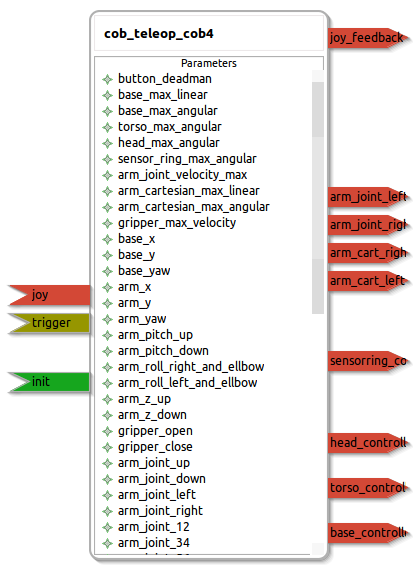
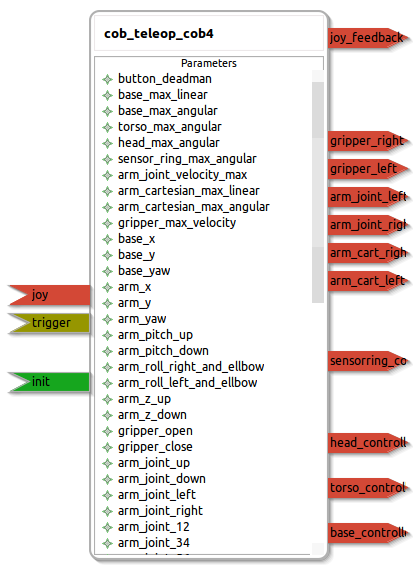
gripper support for 2 joints

Changed region(s): [[0.7775, 0.2088, 0.9952, 0.3281], [0.7464, 0.507, 0.7775, 0.5667]]

diff --git a/cob_teleop_cob4/common/src/cob_teleop_cob4_common.cpp b/cob_teleop_cob4/common/src/cob_teleop_cob4_common.cpp
@@ -9,6 +9,8 @@
 #include <geometry_msgs/Twist.h>
 #include <brics_actuator/JointVelocities.h>
 #include <geometry_msgs/Twist.h>
+#include <brics_actuator/JointVelocities.h>
+#include <brics_actuator/JointVelocities.h>
 #include <sensor_msgs/Joy.h>
 
 /* protected region user include files on begin */
@@ -82,6 +84,9 @@ public:
     double stop_time;
     XmlRpc::XmlRpcValue arm_right_uri;
     XmlRpc::XmlRpcValue led_mode;
+    int gripper_1;
+    int gripper_2;
+    double gripper_max_angular;
 };
 
 class cob_teleop_cob4_data
@@ -109,6 +114,10 @@ public:
     bool out_sensorring_controller_command_active;
     geometry_msgs::Twist out_torso_controller_command;
     bool out_torso_controller_command_active;
+    brics_actuator::JointVelocities out_gripper_left;
+    bool out_gripper_left_active;
+    brics_actuator::JointVelocities out_gripper_right;
+    bool out_gripper_right_active;
 };
 
 class cob_teleop_cob4_impl
@@ -125,19 +134,19 @@ class cob_teleop_cob4_impl
     float run;
     float updown;
     float leftright;
-    brics_actuator::JointVelocities sring;
     geometry_msgs::Twist head;
     geometry_msgs::Twist base;
     geometry_msgs::Twist torso;
     sensor_msgs::Joy joy;
     brics_actuator::JointVelocities left;
     brics_actuator::JointVelocities right;
-    brics_actuator::JointValue jvalue;
+    brics_actuator::JointVelocities sring;
+    brics_actuator::JointVelocities gleft;
+    brics_actuator::JointVelocities gright;
     cob_script_server::ScriptGoal sss;
     
     sensor_msgs::JoyFeedbackArray joyfb;
-    //std::vector<bool> leds;
-    //double leds[4];
+
 
     XmlRpc::XmlRpcValue LEDS;
 
@@ -153,31 +162,42 @@ public:
       ROS_INFO("Connecting to script_server");
       client->waitForServer();
       ROS_INFO("Connected");
-
-
         /* protected region user constructor end */
     }
 
     void configure(cob_teleop_cob4_config config) 
     {
         /* protected region user configure on begin */
-      mode=0;
-      jvalue.unit="rad/sec";
+      //asign arm joints
+
       left.velocities.resize(7);
       right.velocities.resize(7);
       int i;
       for (i=0; i<7; i++)
       {
-        left.velocities.at(i)=jvalue;
-        right.velocities.at(i)=jvalue;
+        left.velocities[i].unit="rad/sec";
+        right.velocities[i].unit="rad/sec";
         left.velocities[i].joint_uri=static_cast<std::string>(config.arm_left_uri[i]).c_str();
         right.velocities[i].joint_uri=static_cast<std::string>(config.arm_right_uri[i]).c_str();
       }
-
+      //set sensoring joint
       sring.velocities.resize(1);
       sring.velocities[0].joint_uri="sensorring_joint";
       sring.velocities[0].unit="rad/sec";
       
+      //set gripper joints
+      gleft.velocities.resize(2);
+      gright.velocities.resize(2);
+      for (i=0; i<2; i++)
+      {
+      gleft.velocities[i].unit="rad/sec";
+      gright.velocities[i].unit="rad/sec";
+      gleft.velocities[i].joint_uri="Todo:/left";
+      gright.velocities[i].joint_uri="Todo:/right";
+      }
+      //set initial mode after startup
+      mode=0;
+      LEDS=config.led_mode[mode];
         /* protected region user configure end */
     }
 
@@ -192,7 +212,10 @@ public:
     data.out_head_controller_command_active=0;
     data.out_arm_cart_left_active=0;
     data.out_arm_cart_right_active=0;
-    
+    data.out_gripper_left_active=0;
+    data.out_gripper_right_active=0;
+    data.out_joy_feedback=ledsOn(LEDS);//Set Leds always, also on startup
+
     if (data.in_joy.buttons.size()<=5)//wait for complete joypad!
     {  
       ROS_WARN("joypad inactive! waiting for array of buttons. Move the Controller");
@@ -215,12 +238,9 @@ public:
       {
         mode = 0;
       }
-
       ROS_INFO("Mode switched to: %d",mode);
-      //ROS_ASSERT(config.led_mode[0].getType() == XmlRpc::XmlRpcValue::TypeArray);
-      LEDS=config.led_mode[mode]; //Todo: set after startup
-      data.out_joy_feedback=ledsOn(LEDS);
-      data.out_joy_feedback_active=1;
+      LEDS=config.led_mode[mode];
+      //data.out_joy_feedback=ledsOn(LEDS);//already set after startup
       return;
     }
     //working
@@ -284,10 +304,12 @@ public:
       left.velocities[4].value=updown*joy.buttons[config.arm_joint_56]*run*config.arm_joint_velocity_max;
       left.velocities[5].value=leftright*joy.buttons[config.arm_joint_56]*run*config.arm_joint_velocity_max;
       left.velocities[6].value=updown*joy.buttons[config.arm_joint_7_gripper]*run*config.arm_joint_velocity_max;
-      //left.joint_gripper=leftright*joy.buttons[config.arm_joint_7_gripper]*run*config.arm_joint_velocity_max;
-      //left.velocities[0].timeStamp=ros::Time::now();
+      gleft.velocities[0].value=joy.axes[config.gripper_1]*run*config.gripper_max_angular;
+      gleft.velocities[1].value=joy.axes[config.gripper_2]*run*config.gripper_max_angular;
+      data.out_gripper_left=gleft;
       data.out_arm_joint_left=left;
       data.out_arm_joint_left_active=1;
+      data.out_gripper_left_active=1;
       if (!joy.buttons[config.button_init_recover]){once=false;}
       if (joy.buttons[config.button_init_recover] && !once)
       {
@@ -304,16 +326,18 @@ public:
       right.velocities[4].value=updown*joy.buttons[config.arm_joint_56]*run*config.arm_joint_velocity_max;
       right.velocities[5].value=leftright*joy.buttons[config.arm_joint_56]*run*config.arm_joint_velocity_max;
       right.velocities[6].value=updown*joy.buttons[config.arm_joint_7_gripper]*run*config.arm_joint_velocity_max;
-      //right.joint_gripper=rightright*joy.buttons[config.arm_joint_7_gripper]*run*config.arm_joint_velocity_max;
-      //right.velocities[0].timeStamp=ros::Time::now();
+      gright.velocities[0].value=joy.axes[config.gripper_1]*run*config.gripper_max_angular;
+      gright.velocities[1].value=joy.axes[config.gripper_2]*run*config.gripper_max_angular;
+      data.out_gripper_right=gright;
+      data.out_arm_joint_right=right;
+      data.out_arm_joint_right_active=1;
+      data.out_gripper_right_active=1;
       if (!joy.buttons[config.button_init_recover]){once=false;}
       if (joy.buttons[config.button_init_recover] && !once)
       {
            initRecover("arm_right");
            once=true;
       }
-      data.out_arm_joint_right=right;
-      data.out_arm_joint_right_active=1;
       break;
       
       case 5 : //automoves script 
@@ -389,7 +413,6 @@ public:
 
 
     /* protected region user additional functions on begin */
-
     void serviceCall(const std::string component, const std::string command)//same as below
   {
     std::stringstream ss;

diff --git a/cob_teleop_cob4/ros/src/cob_teleop_cob4_ros.cpp b/cob_teleop_cob4/ros/src/cob_teleop_cob4_ros.cpp
@@ -13,6 +13,8 @@
 #include <geometry_msgs/Twist.h>
 #include <brics_actuator/JointVelocities.h>
 #include <geometry_msgs/Twist.h>
+#include <brics_actuator/JointVelocities.h>
+#include <brics_actuator/JointVelocities.h>
 #include <sensor_msgs/Joy.h>
 
 // other includes
@@ -37,6 +39,8 @@ class cob_teleop_cob4_ros
     ros::Publisher head_controller_command_;
     ros::Publisher sensorring_controller_command_;
     ros::Publisher torso_controller_command_;
+    ros::Publisher gripper_left_;
+    ros::Publisher gripper_right_;
     ros::Subscriber joy_;
 
     cob_teleop_cob4_data component_data_;
@@ -58,6 +62,8 @@ class cob_teleop_cob4_ros
         head_controller_command_ = n_.advertise<geometry_msgs::Twist>("head_controller_command", 1);
         sensorring_controller_command_ = n_.advertise<brics_actuator::JointVelocities>("sensorring_controller_command", 1);
         torso_controller_command_ = n_.advertise<geometry_msgs::Twist>("torso_controller_command", 1);
+        gripper_left_ = n_.advertise<brics_actuator::JointVelocities>("gripper_left", 1);
+        gripper_right_ = n_.advertise<brics_actuator::JointVelocities>("gripper_right", 1);
         joy_ = n_.subscribe("joy", 1, &cob_teleop_cob4_ros::topicCallback_joy, this);
 
         np_.param("button_deadman", component_config_.button_deadman, (int)11);
@@ -132,6 +138,9 @@ class cob_teleop_cob4_ros
             np_.getParam("led_mode", component_config_.led_mode);
         else
             ROS_ERROR("Parameter led_mode not set");
+        np_.param("gripper_1", component_config_.gripper_1, (int)3);
+        np_.param("gripper_2", component_config_.gripper_2, (int)4);
+        np_.param("gripper_max_angular", component_config_.gripper_max_angular, (double)0.2);
     }
     void topicCallback_joy(const sensor_msgs::Joy::ConstPtr& msg)
     {
@@ -196,6 +205,9 @@ class cob_teleop_cob4_ros
         component_config_.base_home = config.base_home;
         component_config_.home_time = config.home_time;
         component_config_.stop_time = config.stop_time;
+        component_config_.gripper_1 = config.gripper_1;
+        component_config_.gripper_2 = config.gripper_2;
+        component_config_.gripper_max_angular = config.gripper_max_angular;
     }
 
     void configure()
@@ -214,6 +226,8 @@ class cob_teleop_cob4_ros
         component_data_.out_head_controller_command_active = true;
         component_data_.out_sensorring_controller_command_active = true;
         component_data_.out_torso_controller_command_active = true;
+        component_data_.out_gripper_left_active = true;
+        component_data_.out_gripper_right_active = true;
     }
 
     void update()
@@ -238,6 +252,10 @@ class cob_teleop_cob4_ros
             sensorring_controller_command_.publish(component_data_.out_sensorring_controller_command);
         if (component_data_.out_torso_controller_command_active)
             torso_controller_command_.publish(component_data_.out_torso_controller_command);
+        if (component_data_.out_gripper_left_active)
+            gripper_left_.publish(component_data_.out_gripper_left);
+        if (component_data_.out_gripper_right_active)
+            gripper_right_.publish(component_data_.out_gripper_right);
     }
 };
 
